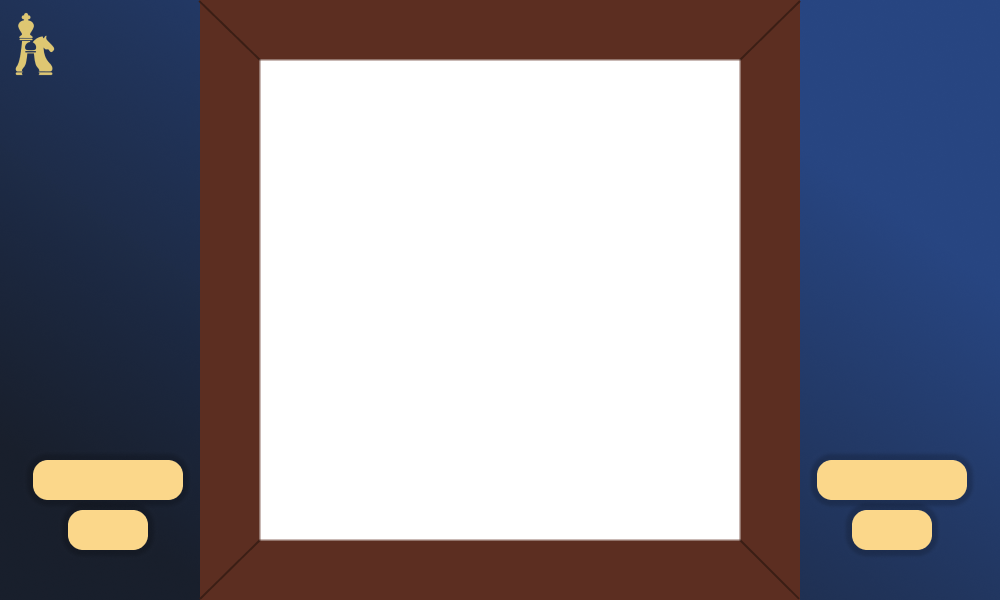
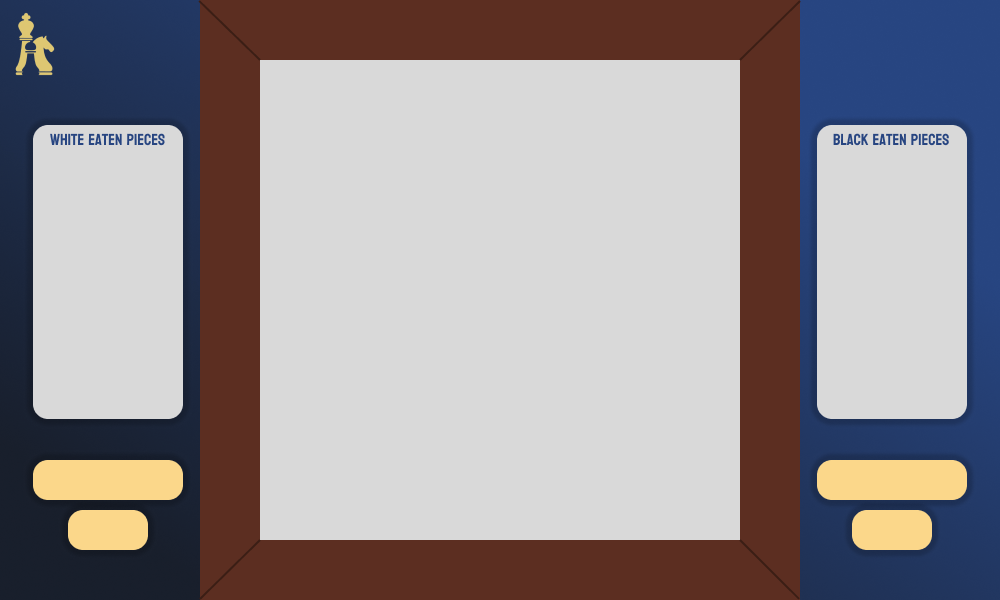
sum

diff --git a/finalChessCode2/src/Main/BoardGui.java b/finalChessCode2/src/Main/BoardGui.java
@@ -13,27 +13,30 @@ public class BoardGui extends JLayeredPane {
     private JLayeredPane panel;
     private JLabel label;
     private JPanel board;
-    private JPanel square;
+    private JLabel square;
     private JLabel labelSquare;
     private JLabel time1;
     private JLabel time2;
     private JLabel name1;
     private JLabel name2;
     private JPanel newPanel;
-
-
+    private JLabel deadWhite;
+    private JLabel deadBlack;
+    private int counterBlack;
+    private int counterWhite;
 
 
     public BoardGui(Person p1, Person p2) {
-//
 
+        counterBlack = 0;
+        counterWhite = 0;
 
-        frame=new JFrame("PawnHackers Chess");
-        panel=new JLayeredPane();
+        frame = new JFrame("PawnHackers Chess");
+        panel = new JLayeredPane();
         frame.add(panel);
-        panel.setBounds(0,0,1012,645);
+        panel.setBounds(0, 0, 1012, 645);
 
-        frame.setSize(1012,645);
+        frame.setSize(1012, 645);
         frame.setVisible(true);
         frame.setResizable(false);
         frame.setDefaultCloseOperation(WindowConstants.DISPOSE_ON_CLOSE);
@@ -42,46 +45,55 @@ public class BoardGui extends JLayeredPane {
         frame.setIconImage(image.getImage());
         frame.setLayout(null);
 
-        Board board1 = new Board();
+        Board board1 = new Board(this);
         //panel.add(board1);
 
         newPanel = new JPanel();
-        newPanel.setBounds(260,60,480,480);
+        newPanel.setBounds(260, 60, 480, 480);
         newPanel.setLayout(new GridBagLayout());
         newPanel.add(board1);
         panel.add(newPanel);
 
+        deadWhite = new JLabel();
+        deadWhite.setBounds(48, 153, 120, 250);
+//        deadWhite.setLayout(new GridLayout(5, 3));
+        deadWhite.setForeground(Color.BLACK);
+        panel.add(deadWhite);
+
+        deadBlack = new JLabel();
+        deadBlack.setBounds(832, 153, 120, 250);
+//        deadBlack.setLayout(new GridLayout(5, 3));
+        deadBlack.setForeground(Color.BLACK);
+        panel.add(deadBlack);
 
 
-        name1=new JLabel(p1.getPlayerName()+"'s Time:");
+        name1 = new JLabel(p1.getPlayerName() + "'s Time:");
         name1.setHorizontalAlignment(SwingConstants.CENTER);
-        name1.setFont(new Font("Bayon",Font.BOLD,15));
-        name1.setForeground(new Color(39,69,129,255));
-        name1.setBounds(35,460,145,40);
+        name1.setFont(new Font("Bayon", Font.BOLD, 15));
+        name1.setForeground(new Color(39, 69, 129, 255));
+        name1.setBounds(35, 460, 145, 40);
         panel.add(name1);
 
-        name2=new JLabel(p2.getPlayerName()+"'s Time:");
+        name2 = new JLabel(p2.getPlayerName() + "'s Time:");
         name2.setHorizontalAlignment(SwingConstants.CENTER);
-        name2.setFont(new Font("Bayon",Font.BOLD,15));
-        name2.setForeground(new Color(39,69,129,255));
-        name2.setBounds(819,460,145,40);
+        name2.setFont(new Font("Bayon", Font.BOLD, 15));
+        name2.setForeground(new Color(39, 69, 129, 255));
+        name2.setBounds(819, 460, 145, 40);
         panel.add(name2);
 
-        time1=new JLabel("05:00");
+        time1 = new JLabel("05:00");
         time1.setHorizontalAlignment(SwingConstants.CENTER);
-        time1.setFont(new Font("Bayon",Font.BOLD,20));
-        time1.setForeground(new Color(39,69,129,255));
-        time1.setBounds(70,510,76,40);
+        time1.setFont(new Font("Bayon", Font.BOLD, 20));
+        time1.setForeground(new Color(39, 69, 129, 255));
+        time1.setBounds(70, 510, 76, 40);
         panel.add(time1);
 
-        time2=new JLabel("05:00");
+        time2 = new JLabel("05:00");
         time2.setHorizontalAlignment(SwingConstants.CENTER);
-        time2.setFont(new Font("Bayon",Font.BOLD,20));
-        time2.setForeground(new Color(39,69,129,255));
-        time2.setBounds(854,510,76,40);
+        time2.setFont(new Font("Bayon", Font.BOLD, 20));
+        time2.setForeground(new Color(39, 69, 129, 255));
+        time2.setBounds(854, 510, 76, 40);
         panel.add(time2);
-
-
 
 
         label = new JLabel();
@@ -91,7 +103,65 @@ public class BoardGui extends JLayeredPane {
         ImageIcon image2 = new ImageIcon("board.png");
         label.setIcon(image2);
 
+    }
+
+    public void displayDeadPieces(boolean isWhite, String name) {
+        // i mod 3 , i/3
+        if (isWhite) {
+//            if (counterWhite == 2) {
+//                counterWhite = 0;
+//                deadWhite.setText(deadWhite.getText() + "<html>My cool App <br> Buy it now</html>");
+//            }
+            if (name.equals("Bishop")) {
+//                deadWhite.setDisplayedMnemonicIndex(counterWhite);
+                deadWhite.setText(deadWhite.getText() + " ♗ ");
+                this.counterWhite++;
+            }
+            if (name.equals("Castle")) {
+//                deadWhite.setDisplayedMnemonicIndex(counterWhite);
+                deadWhite.setText(deadWhite.getText() + " ♖ ");
+                this.counterWhite++;
+            }
+            if (name.equals("Queen")) {
+//                deadWhite.setDisplayedMnemonicIndex(counterWhite);
+                deadWhite.setText(deadWhite.getText() + " ♕ ");
+                this.counterWhite++;
+            }
+            if (name.equals("Pawn")) {
+//                deadWhite.setDisplayedMnemonicIndex(counterWhite);
+                deadWhite.setText(deadWhite.getText() + " ♙ ");
+                this.counterWhite++;
+            }
+            if (name.equals("Knight")) {
+//                deadWhite.setDisplayedMnemonicIndex(counterWhite);
+                deadWhite.setText(deadWhite.getText() + " ♘ ");
+
+            }
         }
+            else {
+                if (name.equals("Bishop")) {
+//                deadBlack.setDisplayedMnemonicIndex(counterBlack);
+                    deadBlack.setText(deadBlack.getText() + " ♗ ");
+                    this.counterBlack++;
+                }
+                if (name.equals("Castle")) {
+//                deadBlack.setDisplayedMnemonicIndex(counterBlack);
+                    deadBlack.setText(deadBlack.getText() + " ♖ ");
+                    this.counterBlack++;
+                }
+                if (name.equals("Queen")) {
+//                deadBlack.setDisplayedMnemonicIndex(counterBlack);
+                    deadBlack.setText(deadBlack.getText() + " ♕ ");
+                    this.counterBlack++;
+                }
+                if (name.equals("Pawn")) {
+//                deadBlack.setDisplayedMnemonicIndex(counterBlack);
+                    deadBlack.setText(deadBlack.getText() + " ♙ ");
+                    this.counterBlack++;
+                }
+                if (name.equals("Knight")) {
+//                deadBlack.setDisplayedMnemonicIndex(counterBlack);
+                    deadBlack.setText(deadBlack.getText() + " ♘ ");
 
-
-}
+                }
+    }}}

diff --git a/finalChessCode2/src/Main/Board.java b/finalChessCode2/src/Main/Board.java
@@ -23,20 +23,22 @@ public class Board extends JPanel {
 //    private JLabel name2;
 
 
-
-
-
-
      public ArrayList<Piece> pieceList= new ArrayList<>();
+     public ArrayList<Piece> eatenWhite =new ArrayList<>();
+     public ArrayList<Piece> eatenBlack =new ArrayList<>();
+     BoardGui boardGui;
+
     Input input =new Input(this);
     public int squareSize = 60;
     int rows=8;
     int cols = 8;
-    public Board(){
+    public Board(BoardGui boardGui){
         this.setPreferredSize(new Dimension(cols*squareSize,rows*squareSize));
         this.addMouseListener(input);
         this.addMouseMotionListener(input);
+        this.boardGui=boardGui;
         addPieces();
+
 
 
 
@@ -201,8 +203,6 @@ public class Board extends JPanel {
 
 
 
-
-
     public void makeMove(Move move) {
 //        if(move.piece.name.equals(("king"))){
 //            moveking((move));
@@ -218,7 +218,16 @@ public class Board extends JPanel {
     }
 
     public void capture(Move move){
+        if(move.capture.isWhite){
+            eatenWhite.add(move.capture);
+            boardGui.displayDeadPieces(move.capture.isWhite,move.capture.name);
+        }
+        else{
+            eatenBlack.add(move.capture);
+            boardGui.displayDeadPieces(move.capture.isWhite,move.capture.name);
+        }
         pieceList.remove(move.capture);
+
     }
     public boolean isValidMove(Move move){
         if (sameTeam(move.piece,move.capture))
